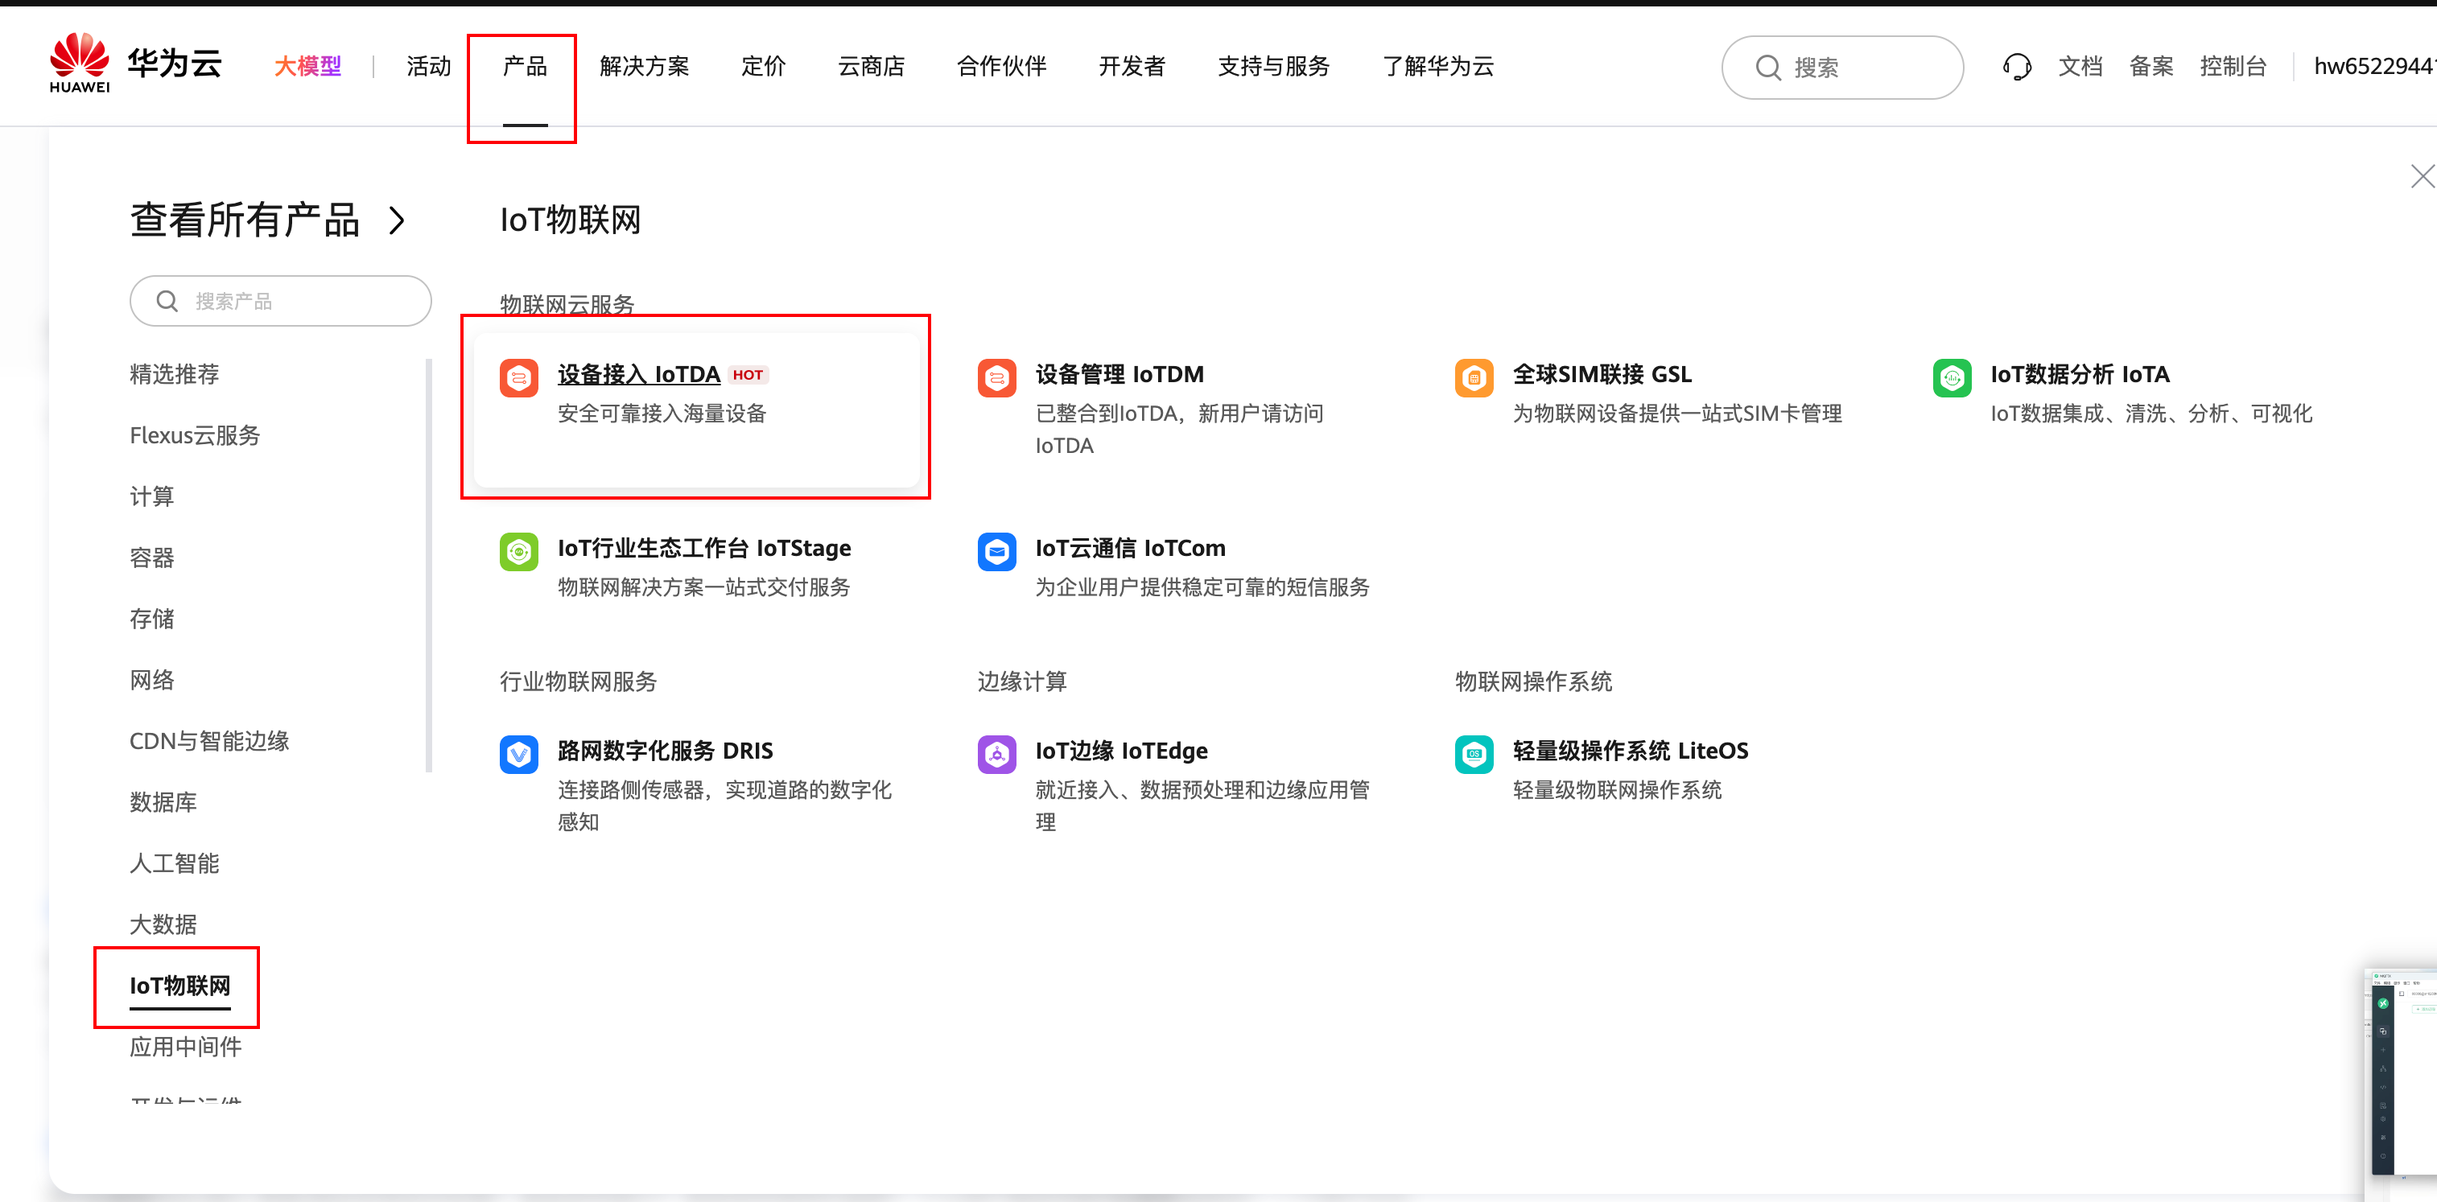
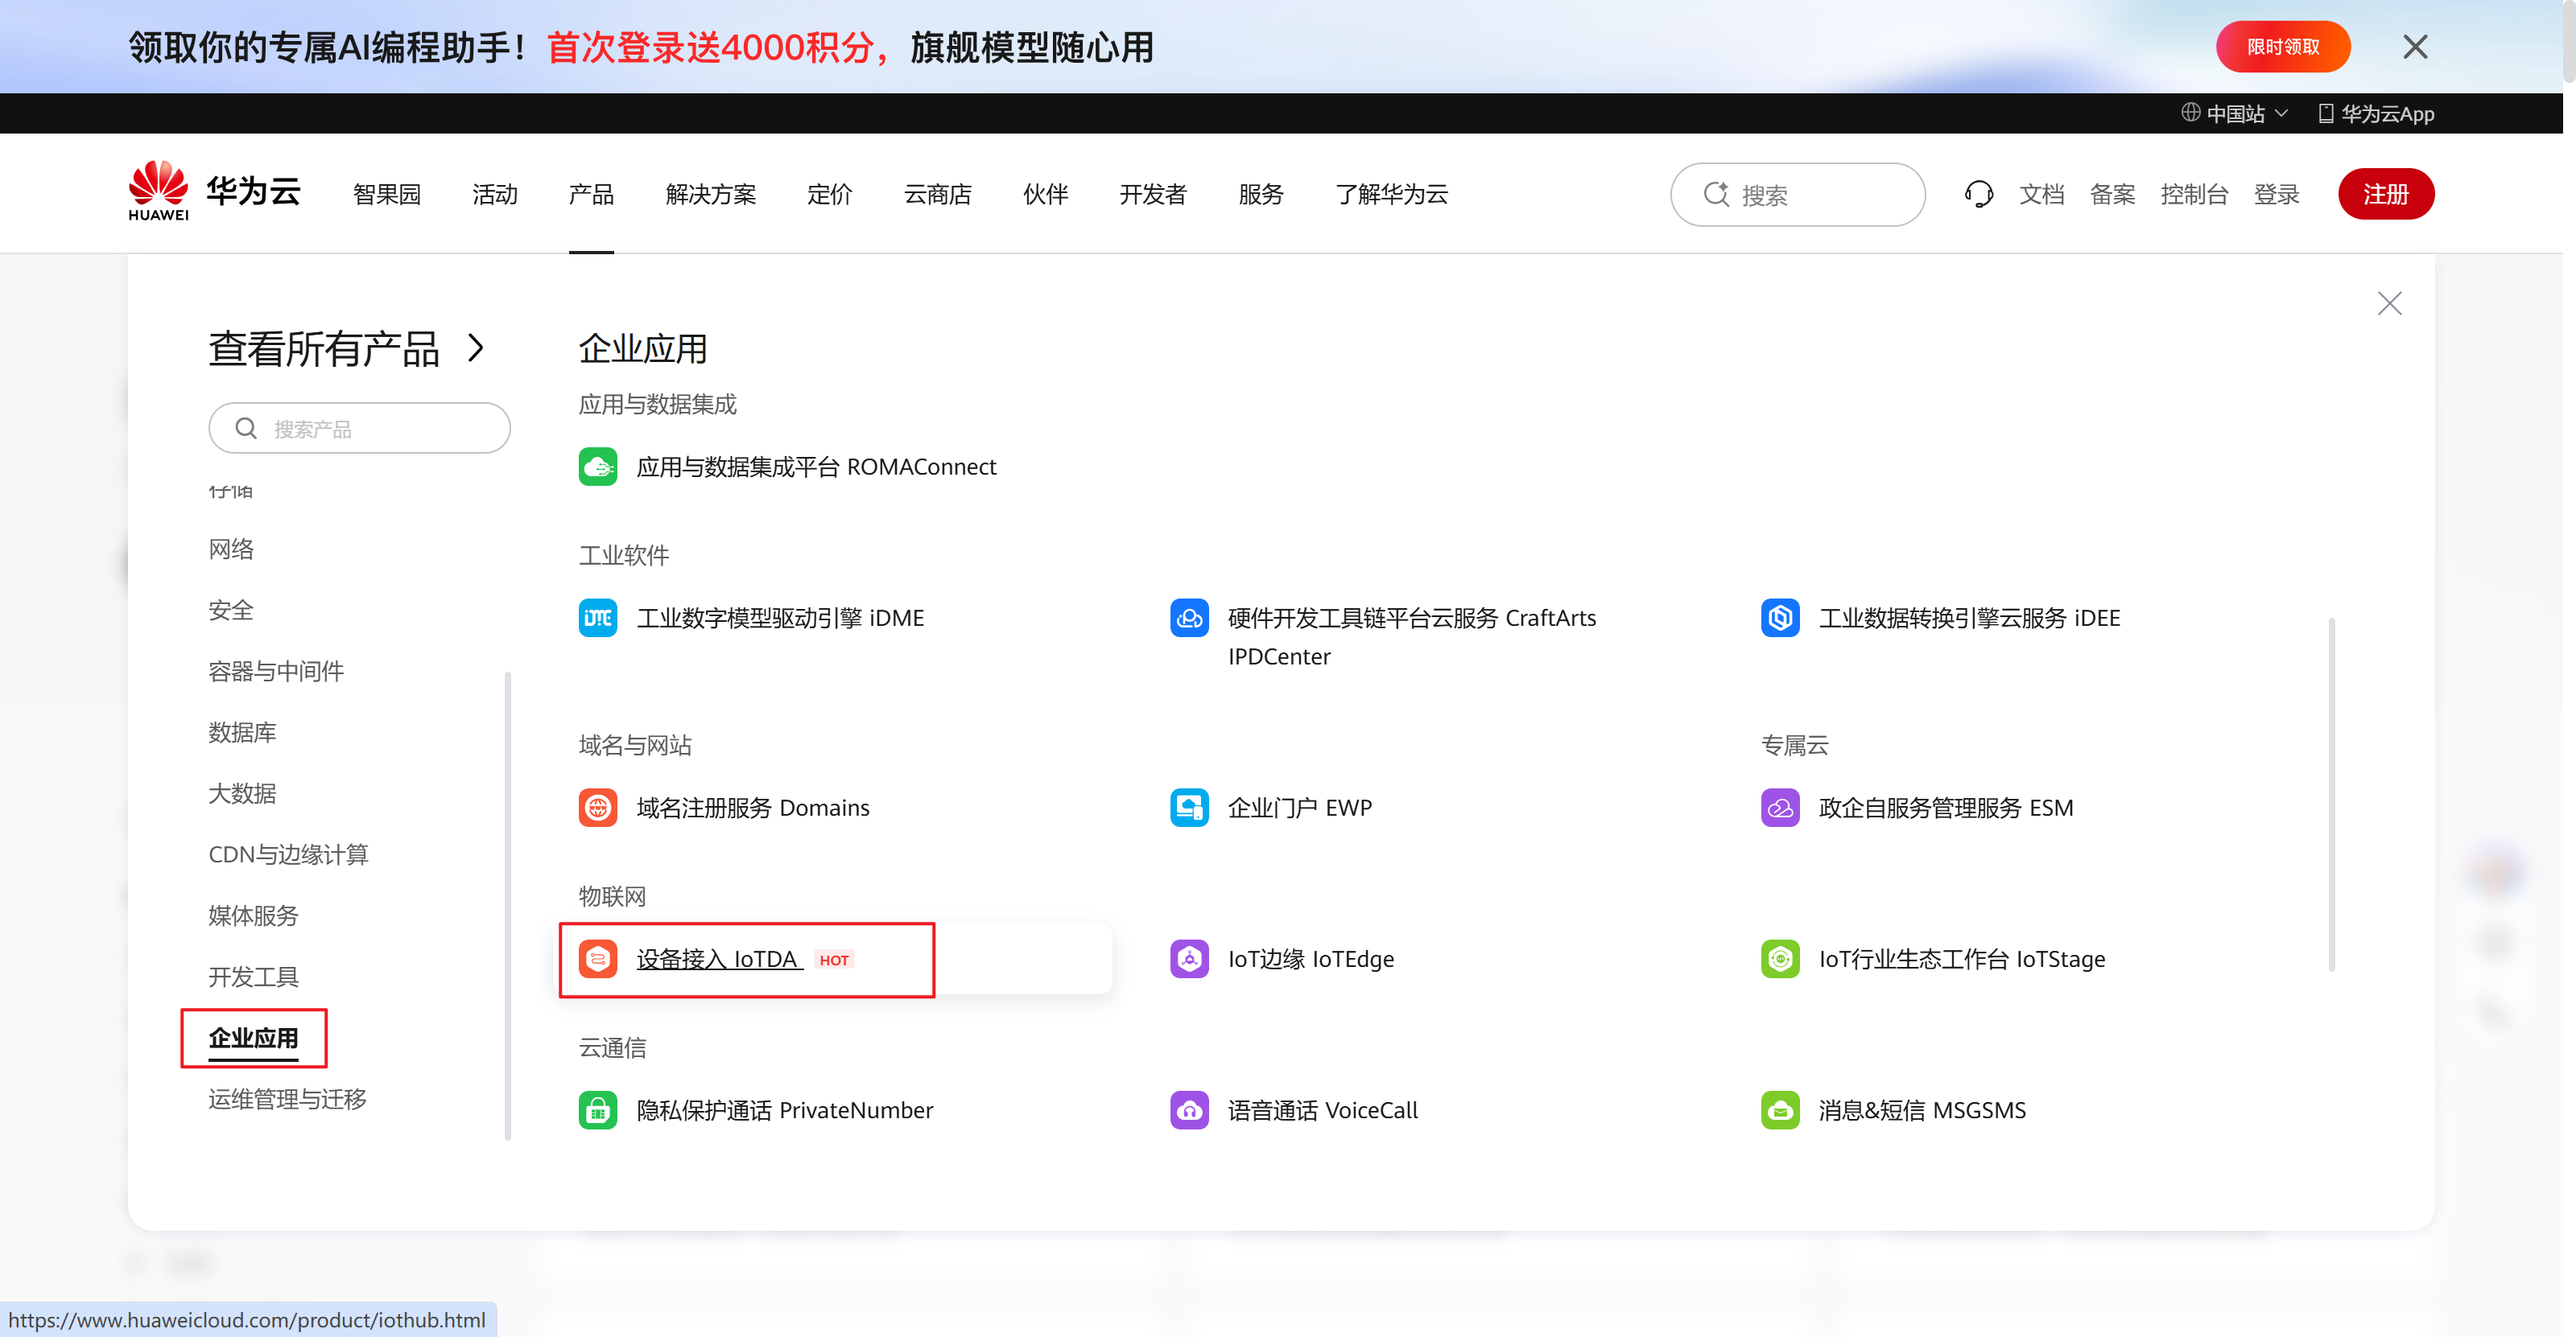
shangcc：2026/10/18 周日  0:20:14.63

diff --git a/project/BookStore/contests/PaintedCat@20261017.html b/project/BookStore/contests/PaintedCat@20261017.html
@@ -1,0 +1,106 @@
+<!DOCTYPE html>
+<html lang="zh-CN">
+
+<head>
+    <meta charset="UTF-8">
+    <meta name="viewport" content="width=device-width, initial-scale=1.0">
+    <title>Document</title>
+    <link rel="stylesheet" href="../css/base.css">
+    <script src="../js/siderbar.js" defer></script>
+</head>
+
+<body>
+    <aside></aside>
+
+    <!-- 移动端遮罩 -->
+    <div class="overlay" id="overlay"></div>
+
+
+    <main>
+        <article>
+
+            <h1>openharmony 南向开发参考文档</h1>
+            <p>
+                <span>2026年10月17日</span>比赛 · 平顶山 · 模版使用
+            </p>
+
+            <h2>1. 代码基本使用规则</h2>
+            <p>第一步：将项目的gn文件中，项目源码以及头文件都链接进去</p>
+            <figure>
+                <img src="images/PaintedCat@202610171744.png" alt="修改头文件链接">
+            </figure>
+
+            <p>第二步：在samples下面的gn文件中将我们的项目链接进去</p>
+            <figure>
+                <img src="images/PaintedCat@202610171759.png" alt="修改头文件链接">
+            </figure>
+
+            <p>第三步：在device文件夹中将makefile文件中 -l 链接我们的项目</p>
+            <figure>
+                <img src="images/PaintedCat@202610171800.png" alt="修改头文件链接">
+            </figure>
+
+            <p>第四步：最后就可以编译我们的文件了</p>
+            <span class="red">（要在Docker容器中执行）</span>
+            <figure>
+                <img src="images/PaintedCat@202610171805.png" alt="修改头文件链接">
+            </figure>
+
+            <p>第五步：将编译好的文件烧录到开发板</p>
+            <p>下面路径找到images文件夹复制到桌面</p>
+            <p>txsmartropenharmony\out\rk2206\isoftstone-rk2206\images</p>
+            <p>使用烧录工具烧录到开发板就可以了</p>
+            <figure>
+                <img src="images/PaintedCat@202610171112.png" alt="修改头文件链接">
+            </figure>
+
+            <h2>2. 编译内核开发-任务</h2>
+            <p>参考文档：<a href="https://gitee.com/isoh_edu/txsmartropenharmony/tree/main/vendor/isoftstone/rk2206/samples/a1_kernel_task">https://gitee.com/isoh_edu/txsmartropenharmony/tree/main/vendor/isoftstone/rk2206/samples/a1_kernel_task</a></p>
+            <p>第一步：修改build文件和makefile文件</p>
+            <p class="red">（注意路径，别改错了）</p>
+            <figure>
+                <img src="images/PaintedCat@202610172039.png" alt="修改头文件链接">
+                <figcaption>注释第67行，打开第20行</figcaption>
+            </figure>
+            <figure>
+                <img src="images/PaintedCat@202610172041.png" alt="修改头文件链接">
+            </figure>
+
+            <p>第二步：编译源代码</p>
+            <figure>
+                <img src="images/PaintedCat@202610172044.png" alt="修改头文件链接">
+            </figure>
+            <figure>
+                <img src="images/PaintedCat@202610172045.png" alt="修改头文件链接">
+            </figure>
+
+            <p>第三步：烧录程序</p>
+            <p>从下面项目路径下，将源码复制到Windows桌面，然后再烧录</p>
+            <p>txsmartropenharmony\out\rk2206\isoftstone-rk2206\images</p>
+            <figure>
+                <img src="images/PaintedCat@202610172054.png" alt="修改头文件链接">
+            </figure>
+
+            <p>第四步：串口调试</p>
+            <p>新建一个连接<span class="red">注意：开发板连接线要插串口</span></p>
+            <figure>
+                <img src="images/PaintedCat@202610172057.png" alt="修改头文件链接">
+            </figure>
+            <p>连接后显示的结果就是 任务1 和任务2 交替出现</p>
+            <figure>
+                <img src="images/PaintedCat@202610172058.png" alt="修改头文件链接">
+            </figure>
+
+
+
+
+        </article>
+    </main>
+    <!-- 右：目录（对应正文里的 <h2 id="xxx">） -->
+    <ul id="toc">
+        <p>本页目录</p>
+    </ul>
+
+</body>
+
+</html>

diff --git a/project/BookStore/contests/PaintedCat@20261015.html b/project/BookStore/contests/PaintedCat@20261015.html
@@ -25,8 +25,8 @@
       </p>
 
       <h2>1. 华为云注册与云端配置</h2>
-      <p>华为云官网：https://www.huaweicloud.com/ </p>
-      <p>选择产品->IoT物联网->设备接入IoTDA</p>
+      <p>华为云官网：<a href="https://www.huaweicloud.com/" target="_blank">https://www.huaweicloud.com/</a> </p>
+      <p>选择产品->企业应用->设备接入IoTDA</p>
       <figure>
         <img src="images/PaintedCat@202610151939.png" alt="设备接入IoTDA">
         <figcaption>设备接入IoTDA</figcaption>
@@ -84,8 +84,17 @@
 
       <h3>2.3. 上传消息</h3>
       <p>设置topic信息（注意替换设备id，服务id，以及属性信息）</p>
-      <pre><code class="language-bash">
-$oc/devices/68de831fef46cd424ce07093_2314/sys/properties/report
+      <pre><code class="language-javascript">
+$oc/devices/6ad31190cbb0cf6bb98dfe60_0001/sys/properties/report
+
+{
+    &quot;services&quot;:[{
+        &quot;service_id&quot;:&quot;sever&quot;,
+        &quot;properties&quot;:{
+            &quot;light&quot;:13.4
+        }
+    }]
+}
 </code></pre>
       <figure>
         <img src="images/PaintedCat@202610152003.png" alt="新增属性">
@@ -106,6 +115,17 @@ $oc/devices/68de831fef46cd424ce07093_2314/sys/properties/report
       </figure>
       <p>这个时候MQTTX会收到消息，这个时候有20秒的手速时间，将命令的返回从mqtt发回去就会成功</p>
       <p>（1）提前准备好响应消息</p>
+      <pre><code class="language-javascript">
+$oc/devices/6ad31190cbb0cf6bb98dfe60_0001/sys/commands/response/request_id=
+
+{
+    &quot;result_code&quot;: 0,
+    &quot;response_name&quot;:&quot;switchLamp&quot;,
+    &quot;paras&quot;:{
+        &quot;result&quot;:true
+    }
+}
+</code></pre>
       <figure>
         <img src="images/PaintedCat@202610152007.png" alt="新增属性">
       </figure>

diff --git a/project/BookStore/js/siderbar.js b/project/BookStore/js/siderbar.js
@@ -4,7 +4,10 @@ const navGroups = [
         name: "参加比赛",
         folder: "contests",
         open: false,
-        items: [{ text: "鸿蒙南向打通", file: "PaintedCat@20261015.html" }]
+        items: [
+            { text: "鸿蒙南向打通", file: "PaintedCat@20261015.html" },
+            { text: "南向开发参考", file: "PaintedCat@20261017.html" }
+        ]
     },
     {
         name: "心情随笔",
